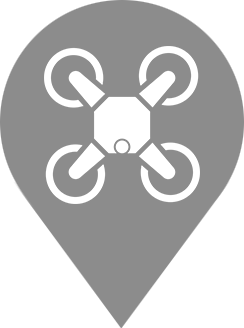
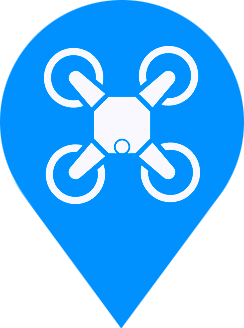
地図ピンをRCは赤、他社のみは青、どちらでもないは灰にする。

diff --git a/apps/map/src/pages/parts/MapView.tsx b/apps/map/src/pages/parts/MapView.tsx
@@ -10,6 +10,7 @@ import html2canvas from "html2canvas";
 import { Loader } from "@googlemaps/js-api-loader";
 import {
   createMarkerIcon,
+  markerIconUrlForFlags,
   useEditableBodyClass,
   useAddAreaMode,
   useMeasurementMode,
@@ -45,6 +46,7 @@ import {
   EV_SIDEBAR_OPEN,
   EV_SIDEBAR_SET_ACTIVE,
   EV_SIDEBAR_VISIBLE_AREAS,
+  EV_SIDEBAR_AREA_KINDS,
   MARKERS_HIDE_ZOOM,
   DEFAULTS,
   EV_PROJECT_MODAL_OPEN,
@@ -1533,6 +1535,10 @@ export default function MapView({ onLoaded }: Props) {
     new WeakMap()
   );
   const selectedMarkerRef = useRef<google.maps.Marker | null>(null);
+  const kindFlagsRef = useRef<Record<string, { own: boolean; other: boolean }>>(
+    {}
+  );
+  const syncMarkerIconsRef = useRef<() => void>(() => {});
   const clearSelectedMarkerRef = useRef<() => void>(() => {});
   const changingPositionRef = useRef(false);
 
@@ -2212,25 +2218,27 @@ export default function MapView({ onLoaded }: Props) {
     pointByMarkerRef.current = new WeakMap();
     selectedMarkerRef.current = null;
 
-    const normalIcon = createMarkerIcon(gmaps, {
-      width: 30,
-      height: 36,
-      anchor: "bottom",
-    });
-    const selectedIcon = createMarkerIcon(gmaps, {
-      width: 38,
-      height: 46,
-      anchor: "bottom",
-    });
+    const iconFor = (p: Point, selected: boolean) => {
+      const flags = p.areaUuid
+        ? kindFlagsRef.current[p.areaUuid]
+        : undefined;
+      return createMarkerIcon(gmaps, {
+        url: markerIconUrlForFlags(flags),
+        width: selected ? 38 : 30,
+        height: selected ? 46 : 36,
+        anchor: "bottom",
+      });
+    };
 
     const bounds = new gmaps.LatLngBounds();
 
     const applySelection = (marker: google.maps.Marker, selected: boolean) => {
+      const p = pointByMarkerRef.current.get(marker);
+      if (!p) return;
+      marker.setIcon(iconFor(p, selected));
       if (selected) {
-        marker.setIcon(selectedIcon);
         marker.setZIndex(google.maps.Marker.MAX_ZINDEX ?? 999999);
       } else {
-        marker.setIcon(normalIcon);
         marker.setZIndex(undefined);
       }
     };
@@ -2238,6 +2246,14 @@ export default function MapView({ onLoaded }: Props) {
       if (!selectedMarkerRef.current) return;
       applySelection(selectedMarkerRef.current, false);
       selectedMarkerRef.current = null;
+    };
+    syncMarkerIconsRef.current = () => {
+      const selected = selectedMarkerRef.current;
+      markersRef.current.forEach((marker) => {
+        const p = pointByMarkerRef.current.get(marker);
+        if (!p) return;
+        marker.setIcon(iconFor(p, marker === selected));
+      });
     };
 
     /** マーカーを選択した場合に地図を寄せる */
@@ -2365,7 +2381,7 @@ export default function MapView({ onLoaded }: Props) {
         position: pos,
         map,
         title: p.name,
-        icon: normalIcon,
+        icon: iconFor(p, false),
       });
       markersRef.current.push(marker);
 
@@ -2831,6 +2847,24 @@ export default function MapView({ onLoaded }: Props) {
         onVisibleAreas as EventListener
       );
   }, [clearCurrentAreaSelection]);
+
+  useEffect(() => {
+    const onAreaKinds = (e: Event) => {
+      const d = (
+        e as CustomEvent<{
+          kinds?: Record<string, { own: boolean; other: boolean }>;
+        }>
+      ).detail;
+      kindFlagsRef.current = d?.kinds ?? {};
+      syncMarkerIconsRef.current();
+    };
+    window.addEventListener(EV_SIDEBAR_AREA_KINDS, onAreaKinds as EventListener);
+    return () =>
+      window.removeEventListener(
+        EV_SIDEBAR_AREA_KINDS,
+        onAreaKinds as EventListener
+      );
+  }, []);
 
   // 案件情報セクション（履歴）用の処理をフックに委譲
   useScheduleSection({

diff --git a/apps/map/src/components/atoms/icons/markerIcon.ts b/apps/map/src/components/atoms/icons/markerIcon.ts
@@ -4,6 +4,21 @@ export type MarkerAnchor =
     | "center"   // 中央
     | { x: number; y: number }; // 任意px
 
+export type MarkerKindFlags = {
+    own: boolean;
+    other: boolean;
+};
+
+function markerAssetUrl(file: string) {
+    return `${import.meta.env.BASE_URL}${file}`;
+}
+
+export function markerIconUrlForFlags(flags?: MarkerKindFlags): string {
+    if (flags?.own) return markerAssetUrl("0100_icon_marker_rc.png");
+    if (flags?.other) return markerAssetUrl("0101_icon_marker_others.png");
+    return markerAssetUrl("0102_icon_marker_gray.png");
+}
+
 export function createMarkerIcon(
     gmaps: typeof google.maps,
     opts?: {
@@ -17,7 +32,7 @@ export function createMarkerIcon(
         anchor?: MarkerAnchor;
     }
 ): google.maps.Icon {
-    const iconSrc = `${import.meta.env.BASE_URL}0100_icon_marker_rc.png`;
+    const iconSrc = markerAssetUrl("0100_icon_marker_rc.png");
     const url = opts?.url ?? iconSrc;
     const w = (opts?.width ?? opts?.size ?? 28);
     const h = (opts?.height ?? opts?.size ?? 28);

diff --git a/apps/map/src/pages/parts/SideListBar.tsx b/apps/map/src/pages/parts/SideListBar.tsx
@@ -69,6 +69,7 @@ import {
   EV_GEOMETRY_REQUEST_DATA,
   EV_SIDEBAR_SET_ACTIVE,
   EV_SIDEBAR_VISIBLE_AREAS,
+  EV_SIDEBAR_AREA_KINDS,
   EV_DETAILBAR_RESPOND_DATA,
   EV_MAP_FOCUS_ONLY,
   EV_GEOMETRY_RESPOND_DATA,
@@ -1726,6 +1727,14 @@ function SideListBarBase({
       })
     );
   }, [visibleAreaGroups]);
+
+  useEffect(() => {
+    window.dispatchEvent(
+      new CustomEvent(EV_SIDEBAR_AREA_KINDS, {
+        detail: { kinds: kindCache },
+      })
+    );
+  }, [kindCache]);
 
   // 更新日をグループ化するためのヘルパー関数
   const getUpdatedAtGroup = (updatedAt: string): string => {

diff --git a/apps/map/src/pages/parts/constants/events.ts b/apps/map/src/pages/parts/constants/events.ts
@@ -7,6 +7,8 @@ export const EV_SIDEBAR_OPEN = "sidebar:open";
 export const EV_SIDEBAR_SET_ACTIVE = "sidebar:set-active";
 /** サイドバーのフィルタ結果：表示するエリア名のセットを地図に通知 */
 export const EV_SIDEBAR_VISIBLE_AREAS = "sidebar:visible-areas";
+/** サイドバーが持っている RC/他社フラグ（ピン色用） */
+export const EV_SIDEBAR_AREA_KINDS = "sidebar:area-kinds";
 
 export const EV_TAKEOFF_REF_CHANGED = "geometry:takeoff-ref-changed";
 
